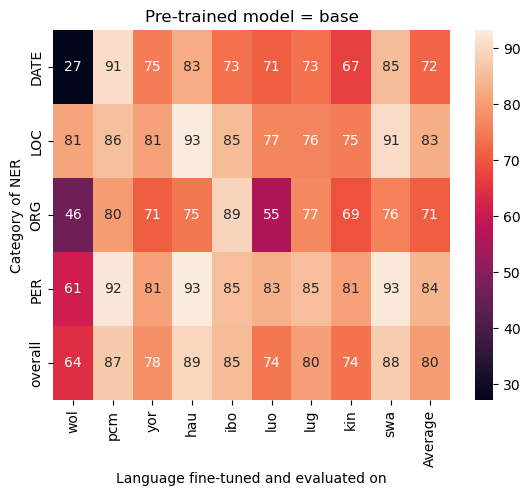
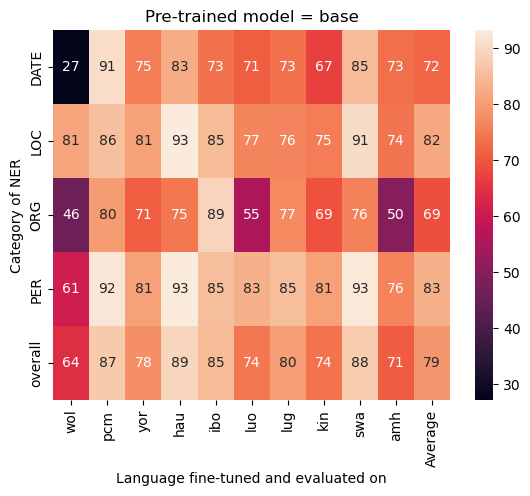
Added prettier plots, as well as Amharic data

Changed region(s): [[0.1208, 0.0605, 0.8453, 0.9073], [0.7849, 0.8165, 0.8453, 0.9375], [0.1208, 0.8165, 0.1509, 0.877]]

diff --git a/analysis/v10/results.tex b/analysis/v10/results.tex
@@ -1,9 +1,10 @@
-\begin{tabular}{llllllllll}
+\begin{tabular}{lllllllllll}
 \toprule
-{} &                      wol &         pcm &                      yor &                      hau &                      ibo &         luo &                      lug &                      kin &                      swa \\
+{} &                      wol &         pcm &                      yor &                      hau &                      ibo &         luo &                      lug &                      kin &                      swa &         amh \\
+Starting point for NER fine-tune &                          &             &                          &                          &                          &             &                          &                          &                          &             \\
 \midrule
-Pre-trained (same-language) &               66.9 (1.7) &  87.1 (0.8) &  $\textbf{83.3 (0.3)}^*$ &  $\textbf{91.6 (0.4)}^*$ &  $\textbf{87.9 (0.5)}^*$ &  76.2 (1.2) &  $\textbf{84.5 (0.5)}^*$ &  $\textbf{78.3 (1.0)}^*$ &  $\textbf{89.6 (0.6)}^*$ \\
-Pre-trained (swa)           &  $\textbf{67.3 (1.3)}^*$ &  88.0 (0.8) &               78.3 (1.0) &    $\text{88.8 (0.2)}^*$ &               84.3 (0.8) &  77.2 (1.4) &    $\text{82.0 (0.5)}^*$ &               75.2 (1.0) &  $\textbf{89.6 (0.6)}^*$ \\
-Pre-trained (base)          &               64.2 (1.3) &  87.3 (0.9) &               77.9 (0.3) &               89.5 (0.4) &               84.9 (0.7) &  74.5 (1.3) &               80.2 (0.7) &               73.7 (0.7) &               87.8 (0.5) \\
+$\text{base} \to X$              &               66.9 (1.7) &  87.1 (0.8) &  $\textbf{83.3 (0.3)}^*$ &  $\textbf{91.6 (0.4)}^*$ &  $\textbf{87.9 (0.5)}^*$ &  76.2 (1.2) &  $\textbf{84.5 (0.5)}^*$ &  $\textbf{78.3 (1.0)}^*$ &  $\textbf{89.6 (0.6)}^*$ &  76.5 (4.0) \\
+$\text{base}$                    &               64.2 (1.3) &  87.3 (0.9) &               77.9 (0.3) &               89.5 (0.4) &               84.9 (0.7) &  74.5 (1.3) &               80.2 (0.7) &               73.7 (0.7) &               87.8 (0.5) &  70.7 (1.1) \\
+$\text{base} \to \text{swa}$     &  $\textbf{67.3 (1.3)}^*$ &  88.0 (0.8) &               78.3 (1.0) &    $\text{88.8 (0.2)}^*$ &               84.3 (0.8) &  77.2 (1.4) &    $\text{82.0 (0.5)}^*$ &               75.2 (1.0) &  $\textbf{89.6 (0.6)}^*$ &  68.9 (0.9) \\
 \bottomrule
 \end{tabular}

diff --git a/analysis/v10/categories/lang-specific.tex b/analysis/v10/categories/lang-specific.tex
@@ -1,11 +1,11 @@
-\begin{tabular}{llllllllll}
+\begin{tabular}{lllllllllll}
 \toprule
-{} &          wol &          pcm &          yor &          hau &          ibo &          luo &          lug &          kin &          swa \\
+{} &          wol &          pcm &          yor &          hau &          ibo &          luo &          lug &          kin &          swa &          amh \\
 \midrule
-DATE    &   26.6 (2.9) &   91.0 (0.9) &   78.2 (1.6) &   84.0 (1.1) &   74.2 (1.7) &   67.0 (3.2) &   76.8 (1.5) &   71.2 (1.3) &   84.0 (2.5) \\
-LOC     &   83.2 (1.2) &   86.6 (1.0) &   86.0 (0.6) &   95.0 (0.6) &   89.2 (1.0) &   80.4 (2.1) &   80.6 (1.0) &   78.2 (0.7) &   92.4 (0.5) \\
-ORG     &   48.6 (3.7) &   79.4 (1.4) &   73.0 (1.3) &   78.0 (2.1) &   89.4 (0.8) &   59.0 (1.1) &   80.2 (0.4) &   73.4 (2.4) &   78.0 (1.1) \\
-PER     &   64.8 (4.0) &   91.0 (1.1) &   91.0 (1.1) &   96.2 (0.7) &   91.0 (0.6) &   85.0 (1.1) &   90.8 (1.2) &   89.4 (0.8) &   96.2 (0.4) \\
-overall &  66.88 (1.7) &  87.09 (0.8) &  83.33 (0.3) &  91.64 (0.4) &  87.88 (0.5) &  76.23 (1.2) &  84.52 (0.5) &  78.34 (1.0) &  89.64 (0.6) \\
+DATE    &   26.6 (2.9) &   91.0 (0.9) &   78.2 (1.6) &   84.0 (1.1) &   74.2 (1.7) &   67.0 (3.2) &   76.8 (1.5) &   71.2 (1.3) &   84.0 (2.5) &   69.6 (3.3) \\
+LOC     &   83.2 (1.2) &   86.6 (1.0) &   86.0 (0.6) &   95.0 (0.6) &   89.2 (1.0) &   80.4 (2.1) &   80.6 (1.0) &   78.2 (0.7) &   92.4 (0.5) &   80.6 (4.9) \\
+ORG     &   48.6 (3.7) &   79.4 (1.4) &   73.0 (1.3) &   78.0 (2.1) &   89.4 (0.8) &   59.0 (1.1) &   80.2 (0.4) &   73.4 (2.4) &   78.0 (1.1) &   55.4 (4.2) \\
+PER     &   64.8 (4.0) &   91.0 (1.1) &   91.0 (1.1) &   96.2 (0.7) &   91.0 (0.6) &   85.0 (1.1) &   90.8 (1.2) &   89.4 (0.8) &   96.2 (0.4) &   88.8 (3.4) \\
+overall &  66.88 (1.7) &  87.09 (0.8) &  83.33 (0.3) &  91.64 (0.4) &  87.88 (0.5) &  76.23 (1.2) &  84.52 (0.5) &  78.34 (1.0) &  89.64 (0.6) &  76.51 (4.0) \\
 \bottomrule
 \end{tabular}

diff --git a/analysis/v10/categories/swa.tex b/analysis/v10/categories/swa.tex
@@ -1,11 +1,11 @@
-\begin{tabular}{llllllllll}
+\begin{tabular}{lllllllllll}
 \toprule
-{} &          wol &          pcm &          yor &          hau &          ibo &          luo &          lug &          kin &          swa \\
+{} &          wol &          pcm &          yor &          hau &          ibo &          luo &          lug &          kin &          swa &          amh \\
 \midrule
-DATE    &   28.2 (4.2) &   90.8 (1.7) &   72.8 (2.3) &   82.4 (0.5) &   71.2 (1.2) &   66.2 (3.8) &   76.0 (1.3) &   69.6 (1.5) &   84.0 (2.5) \\
-LOC     &   82.4 (1.9) &   87.6 (1.0) &   81.0 (0.9) &   92.2 (0.7) &   85.4 (2.4) &   80.6 (1.5) &   78.6 (1.0) &   75.6 (0.5) &   92.4 (0.5) \\
-ORG     &   51.0 (3.3) &   81.4 (0.8) &   70.2 (2.7) &   75.6 (1.6) &   88.6 (0.5) &   59.8 (2.1) &   80.0 (1.3) &   72.6 (1.9) &   78.0 (1.1) \\
-PER     &   66.4 (2.7) &   91.6 (1.4) &   84.2 (1.2) &   92.4 (0.5) &   84.4 (0.5) &   87.6 (1.5) &   86.6 (0.5) &   81.6 (2.1) &   96.2 (0.4) \\
-overall &  67.29 (1.3) &  88.04 (0.8) &  78.29 (1.0) &  88.83 (0.2) &  84.27 (0.8) &  77.25 (1.4) &  81.98 (0.5) &  75.15 (1.0) &  89.64 (0.6) \\
+DATE    &   28.2 (4.2) &   90.8 (1.7) &   72.8 (2.3) &   82.4 (0.5) &   71.2 (1.2) &   66.2 (3.8) &   76.0 (1.3) &   69.6 (1.5) &   84.0 (2.5) &   71.4 (1.4) \\
+LOC     &   82.4 (1.9) &   87.6 (1.0) &   81.0 (0.9) &   92.2 (0.7) &   85.4 (2.4) &   80.6 (1.5) &   78.6 (1.0) &   75.6 (0.5) &   92.4 (0.5) &   72.2 (1.5) \\
+ORG     &   51.0 (3.3) &   81.4 (0.8) &   70.2 (2.7) &   75.6 (1.6) &   88.6 (0.5) &   59.8 (2.1) &   80.0 (1.3) &   72.6 (1.9) &   78.0 (1.1) &   51.2 (1.7) \\
+PER     &   66.4 (2.7) &   91.6 (1.4) &   84.2 (1.2) &   92.4 (0.5) &   84.4 (0.5) &   87.6 (1.5) &   86.6 (0.5) &   81.6 (2.1) &   96.2 (0.4) &   72.0 (0.9) \\
+overall &  67.29 (1.3) &  88.04 (0.8) &  78.29 (1.0) &  88.83 (0.2) &  84.27 (0.8) &  77.25 (1.4) &  81.98 (0.5) &  75.15 (1.0) &  89.64 (0.6) &  68.89 (0.9) \\
 \bottomrule
 \end{tabular}

diff --git a/analysis/v10/categories/base.tex b/analysis/v10/categories/base.tex
@@ -1,11 +1,11 @@
-\begin{tabular}{llllllllll}
+\begin{tabular}{lllllllllll}
 \toprule
-{} &          wol &          pcm &          yor &          hau &          ibo &         luo &          lug &          kin &          swa \\
+{} &          wol &          pcm &          yor &          hau &          ibo &         luo &          lug &          kin &          swa &          amh \\
 \midrule
-DATE    &   27.2 (2.8) &   90.8 (0.7) &   75.4 (1.9) &   82.6 (1.0) &   73.4 (1.9) &  70.8 (3.0) &   73.4 (1.4) &   67.0 (1.8) &   85.0 (1.7) \\
-LOC     &   81.2 (2.1) &   85.6 (1.0) &   80.6 (0.5) &   93.2 (0.4) &   84.8 (1.0) &  76.6 (1.9) &   76.2 (1.5) &   75.2 (1.0) &   90.6 (0.5) \\
-ORG     &   46.0 (4.9) &   79.8 (2.0) &   70.8 (1.3) &   74.6 (1.2) &   89.2 (1.0) &  55.4 (4.0) &   77.0 (1.7) &   69.4 (1.4) &   75.8 (2.3) \\
-PER     &   60.8 (1.6) &   92.4 (1.0) &   80.8 (0.7) &   93.2 (1.2) &   85.4 (1.0) &  83.4 (1.4) &   85.4 (0.8) &   80.8 (1.6) &   92.6 (1.2) \\
-overall &  64.22 (1.3) &  87.34 (0.9) &  77.85 (0.3) &  89.45 (0.4) &  84.85 (0.7) &  74.5 (1.3) &  80.17 (0.7) &  73.72 (0.7) &  87.76 (0.5) \\
+DATE    &   27.2 (2.8) &   90.8 (0.7) &   75.4 (1.9) &   82.6 (1.0) &   73.4 (1.9) &  70.8 (3.0) &   73.4 (1.4) &   67.0 (1.8) &   85.0 (1.7) &   73.2 (1.6) \\
+LOC     &   81.2 (2.1) &   85.6 (1.0) &   80.6 (0.5) &   93.2 (0.4) &   84.8 (1.0) &  76.6 (1.9) &   76.2 (1.5) &   75.2 (1.0) &   90.6 (0.5) &   74.0 (0.9) \\
+ORG     &   46.0 (4.9) &   79.8 (2.0) &   70.8 (1.3) &   74.6 (1.2) &   89.2 (1.0) &  55.4 (4.0) &   77.0 (1.7) &   69.4 (1.4) &   75.8 (2.3) &   49.8 (2.2) \\
+PER     &   60.8 (1.6) &   92.4 (1.0) &   80.8 (0.7) &   93.2 (1.2) &   85.4 (1.0) &  83.4 (1.4) &   85.4 (0.8) &   80.8 (1.6) &   92.6 (1.2) &   76.0 (1.7) \\
+overall &  64.22 (1.3) &  87.34 (0.9) &  77.85 (0.3) &  89.45 (0.4) &  84.85 (0.7) &  74.5 (1.3) &  80.17 (0.7) &  73.72 (0.7) &  87.76 (0.5) &  70.65 (1.1) \\
 \bottomrule
 \end{tabular}

diff --git a/analysis/v10/categories/all_cats.tex b/analysis/v10/categories/all_cats.tex
@@ -38,5 +38,9 @@ kin (east) & base &                                       67.0 (1.8) &          
 swa (east) & base &                                       85.0 (1.7) &                      90.6 (0.5) &                                       75.8 (2.3) &                                       92.6 (1.2) &                                       87.76 (0.5) \\
            & swa &                      \textcolor{red}{84.0 (2.5)} &                      92.4 (0.5) &                                       78.0 (1.1) &                                       96.2 (0.4) &                                       89.64 (0.6) \\
            & lang-specific &                      \textcolor{red}{84.0 (2.5)} &                      92.4 (0.5) &                                       78.0 (1.1) &                                       96.2 (0.4) &                                       89.64 (0.6) \\
+\midrule
+amh (east) & base &                                       73.2 (1.6) &                      74.0 (0.9) &                                       49.8 (2.2) &                                       76.0 (1.7) &                                       70.65 (1.1) \\
+           & swa &                      \textcolor{red}{71.4 (1.4)} &     \textcolor{red}{72.2 (1.5)} &                                       51.2 (1.7) &                      \textcolor{red}{72.0 (0.9)} &                      \textcolor{red}{68.89 (0.9)} \\
+           & lang-specific &  \textcolor{orange}{\textcolor{red}{69.6 (3.3)}} &   \textcolor{green}{80.6 (4.9)} &                    \textcolor{green}{55.4 (4.2)} &                    \textcolor{green}{88.8 (3.4)} &                    \textcolor{green}{76.51 (4.0)} \\
 \bottomrule
 \end{tabular}
